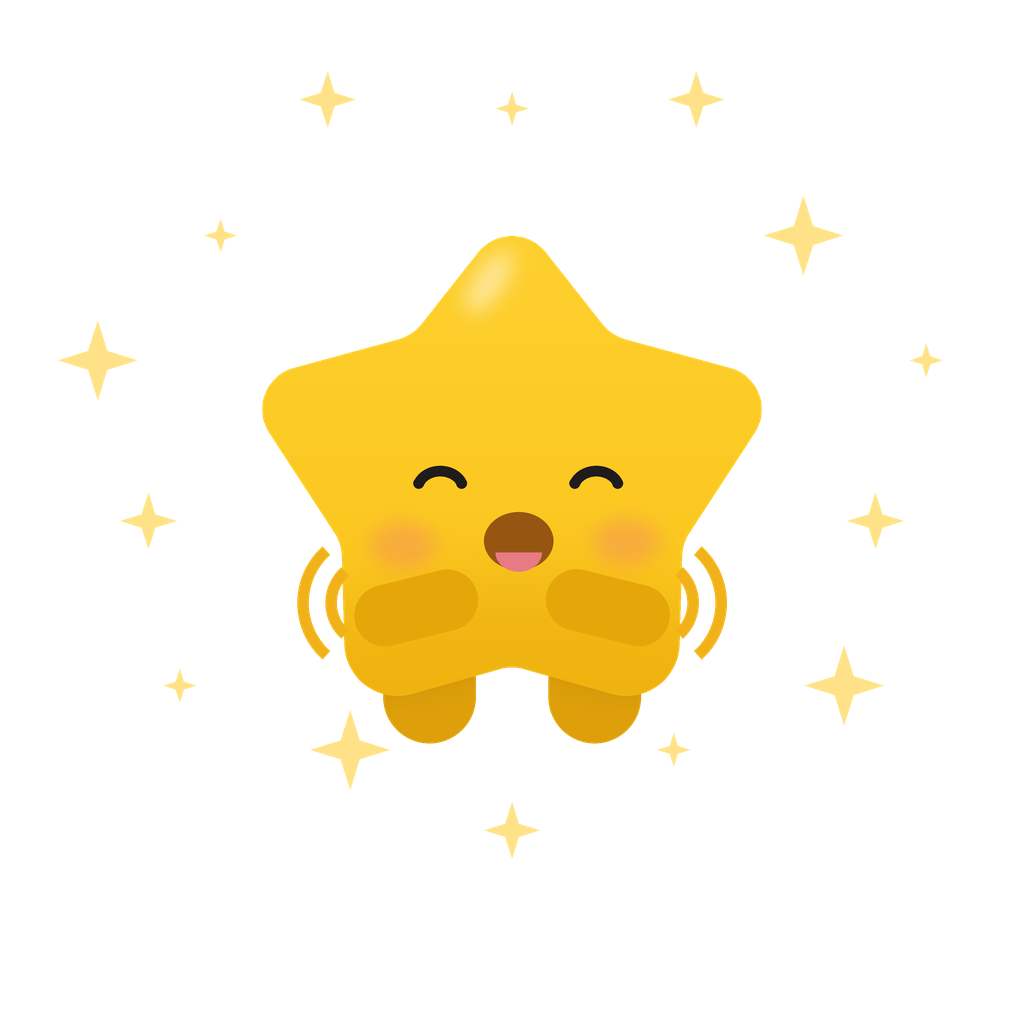
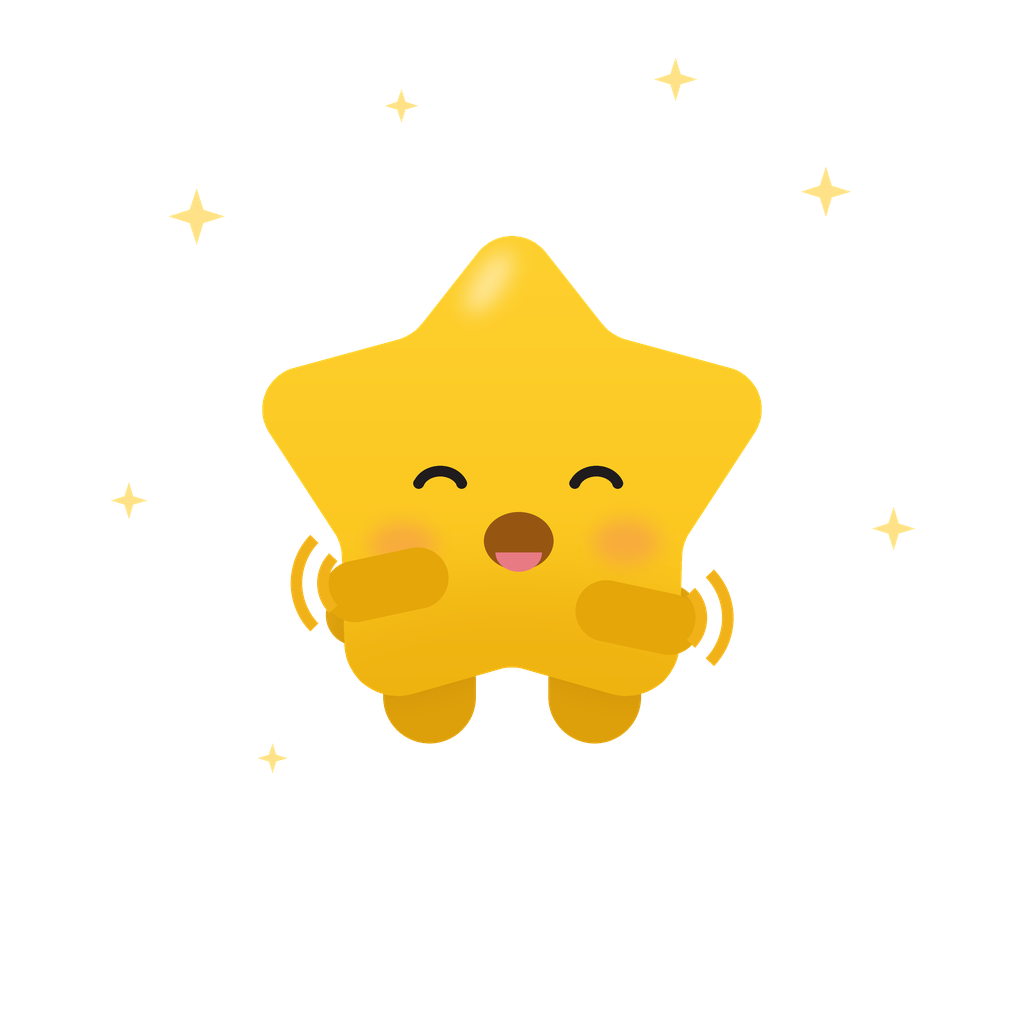
Make the clap readable and thin out the background effects
Clapping hands were one merged blob; they now sit at different heights
and tilt toward each other with a gap between, so the motion reads. Star
fields and the sparkle burst dropped from 14 to a handful of stars at
irregular positions, and the aura's twelve evenly spaced stars — which
looked like a mechanical ring — are replaced by four scattered ones. The
heart ring is less regular too.

Claude-Session: https://claude.ai/code/session_015M4W5mwAC7ThVprora4HqH

diff --git a/scenes.py b/scenes.py
@@ -76,8 +76,7 @@ def heart(d, cx, cy, size, color, alpha=255):
 def stars_around(img):
     """Звёздная россыпь вокруг персонажа."""
     lay, d = layer(img)
-    for cx, cy, size in ((198, 270, 28), (1046, 216, 32), (154, 560, 18),
-                         (1088, 540, 20), (846, 122, 22)):
+    for cx, cy, size in ((206, 286, 26), (1042, 224, 30), (1096, 596, 18)):
         star4(d, cx, cy, size, STAR_LIGHT)
     img.alpha_composite(lay)
 
@@ -119,19 +118,17 @@ def aura(img):
     soft(img, (255, 214, 96), 150,
          lambda d: d.ellipse(sbox([260, 210, 980, 930]), fill=255), blur=s(70))
     lay, d = layer(img)
-    for i in range(12):
-        a = math.radians(i * 30)
-        cx, cy = 620 + 430 * math.cos(a), 560 + 400 * math.sin(a)
-        star4(d, cx, cy, 16, STAR_LIGHT, 220)
+    for cx, cy, size, alpha in ((262, 300, 30, 235), (1002, 268, 24, 215),
+                                (1058, 664, 20, 200), (218, 690, 16, 190)):
+        star4(d, cx, cy, size, STAR_LIGHT, alpha)
     img.alpha_composite(lay)
 
 
 def hearts_around(img):
     """Сердечки вокруг персонажа — «любовь к себе»."""
     lay, d = layer(img)
-    ring = ((214, 372, 108), (1024, 330, 96), (168, 656, 74), (1080, 626, 82),
-            (350, 176, 68), (890, 148, 84), (404, 968, 64), (856, 990, 70),
-            (92, 476, 56), (1156, 468, 60))
+    ring = ((214, 352, 112), (1032, 300, 92), (150, 676, 68), (1096, 654, 78),
+            (376, 152, 62), (884, 176, 80), (438, 990, 58), (836, 966, 66))
     for i, (cx, cy, size) in enumerate(ring):
         color = RED if i % 2 == 0 else (255, 156, 176)
         heart(d, cx, cy, size, color, 255 if i % 2 == 0 else 225)
@@ -141,11 +138,10 @@ def hearts_around(img):
 def sparkle_burst(img):
     """Салют из искр — радость и восторг."""
     lay, d = layer(img)
-    for i in range(14):
-        a = math.radians(-90 + i * 360 / 14)
-        r = 430 + (60 if i % 2 else 0)
-        cx, cy = 620 + r * math.cos(a) * 1.05, 540 + r * math.sin(a) * 0.95
-        star4(d, cx, cy, 20 + 14 * (i % 3), STAR_LIGHT, 245)
+    for cx, cy, size in ((238, 262, 34), (1000, 232, 30), (156, 606, 22),
+                         (1082, 640, 26), (486, 128, 20), (818, 96, 26),
+                         (330, 918, 18)):
+        star4(d, cx, cy, size, STAR_LIGHT, 245)
     img.alpha_composite(lay)
 
 
@@ -227,8 +223,14 @@ def hands_notepad(img):
 
 
 def hands_clap(img):
-    """Сомкнутые ладони поверх корпуса — иначе они тонут в силуэте."""
-    hands_over(img, arm="clap")
+    """Ладони поверх корпуса, одна чуть выше другой — движение хлопка."""
+    dx, cy, w, h, tilt = cs.ARMS["clap"]
+    m = Image.new("L", img.size, 0)
+    cs.rotated_capsule(m, cs.CX - dx, cy - 22, w, h, -tilt - 10)
+    cs.rotated_capsule(m, cs.CX + dx, cy + 18, w, h, tilt + 10)
+    lay = Image.new("RGBA", img.size, HAND + (0,))
+    lay.putalpha(m)
+    img.alpha_composite(lay)
 
 
 def cloud(img):
@@ -399,9 +401,9 @@ def rocket(img):
 def clap_lines(img):
     """Дужки у сведённых ладоней — аплодисменты."""
     lay, d = layer(img)
-    for cx, a0, a1 in ((452, 132, 228), (788, 312, 48)):
-        for r in (58, 92):
-            d.arc(sbox([cx - r, 730 - r, cx + r, 730 + r]), a0, a1,
+    for cx, cy, a0, a1 in ((436, 706, 136, 224), (804, 748, 316, 44)):
+        for r in (52, 84):
+            d.arc(sbox([cx - r, cy - r, cx + r, cy + r]), a0, a1,
                   fill=cs.MOTION + (255,), width=int(s(14)))
     img.alpha_composite(lay)
 

diff --git a/cute_star.py b/cute_star.py
@@ -221,7 +221,7 @@ ARMS = {
     "up": ARM_UP,
     "hold": (150, 706, 74, 152, 58),     # вперёд-внутрь: держит предмет
     "point": (270, 646, 74, 176, -78),   # вбок, почти горизонтально
-    "clap": (116, 736, 74, 152, 76),     # ладони сведены перед собой
+    "clap": (152, 730, 74, 152, 68),     # ладони перед собой, с просветом
     "hug": (186, 700, 74, 150, 54),      # обнимает — чуть ниже, чем hold
 }
 
